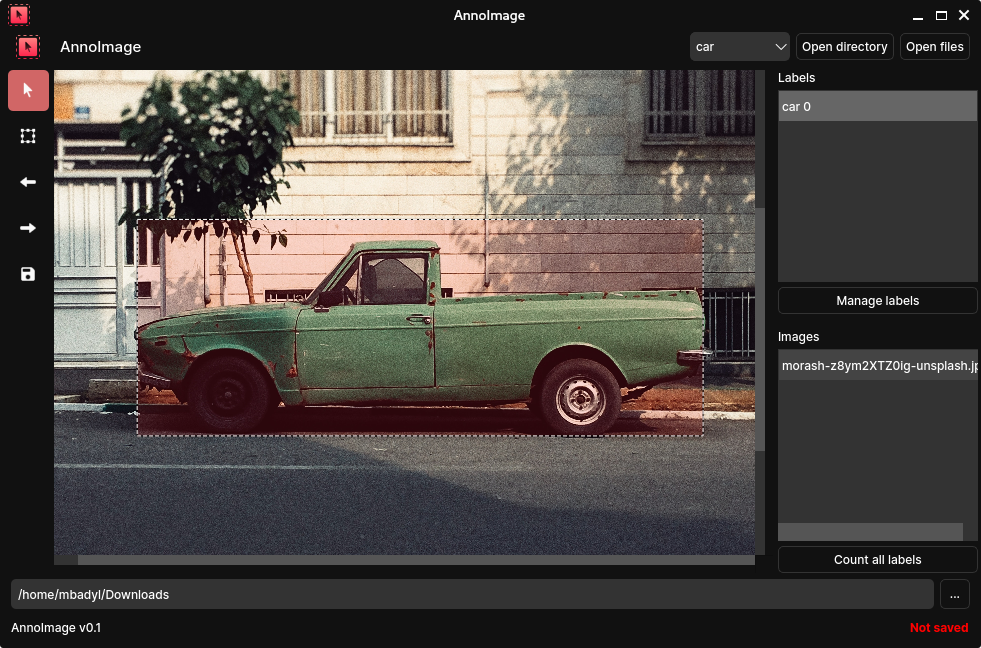
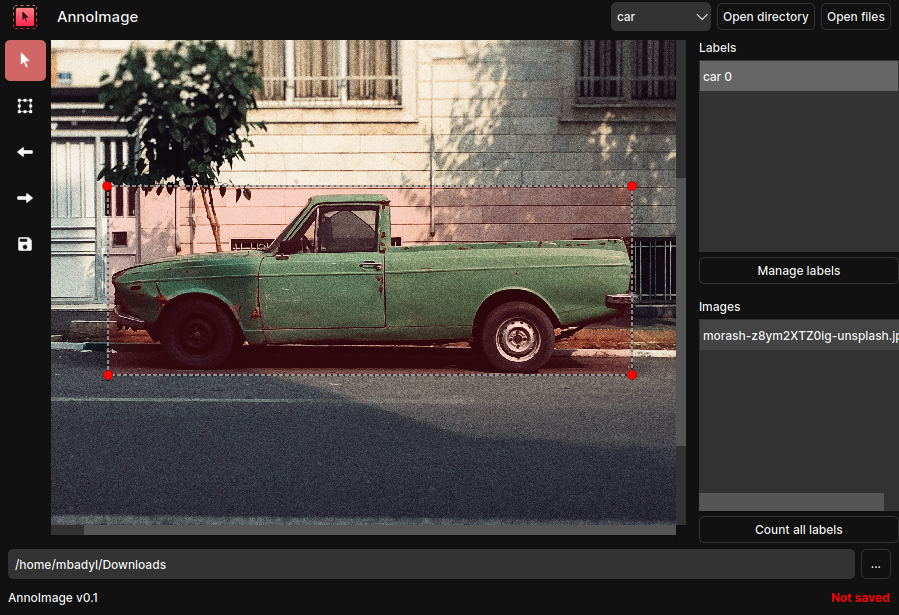
Label resize

diff --git a/widgets/rectangle_item.py b/widgets/rectangle_item.py
@@ -1,14 +1,21 @@
 from PySide6.QtCore import Qt, QPointF, QRectF, Signal
-from PySide6.QtWidgets import QGraphicsRectItem
+from PySide6.QtWidgets import QGraphicsRectItem, QGraphicsEllipseItem
 from PySide6.QtGui import QPen, QBrush, QColor
 
 
 class RectangleItem(QGraphicsRectItem):
+    start_resizing = Signal()
+    stop_resizing = Signal()
+
     def __init__(
-        self, start_point, end_point, label_name, label_id, image_width, image_height
+        self, start_point, end_point, label_name, label_id, image_width, image_height,
+            parent
     ):
         super().__init__()
+        print("RectangleItem init")
         self.setRect(self.calculateRectangle(start_point, end_point))
+        self.image_view = parent
+        self.resize_handles = []
 
         self.default_pen = QPen(QColor(255, 0, 0))
         self.default_pen.setStyle(Qt.DashLine)
@@ -23,6 +30,7 @@ class RectangleItem(QGraphicsRectItem):
         self.label_id = label_id
         self.label_line = self.create_yolo_label()
 
+        self.add_resize_handles()
         self.set_default_color()
         self.setAcceptHoverEvents(True)
 
@@ -62,3 +70,57 @@ class RectangleItem(QGraphicsRectItem):
     def hoverLeaveEvent(self, event):
         if self.selectable:
             self.set_default_color()
+
+    def add_resize_handles(self):
+        handle_size = min(self.rect().width(), self.rect().height()) * 0.05
+        half_size = handle_size / 2
+
+        for x, y in [(0, 0), (1, 0), (0, 1), (1, 1)]:
+            handle = HandleItem(-half_size, -half_size, handle_size, handle_size, self)
+            handle.setPos(self.rect().x() + x * self.rect().width(), self.rect().y() + y * self.rect().height())
+            handle.setFlag(QGraphicsEllipseItem.ItemIsMovable)
+            handle.setBrush(QBrush(QColor(255, 0, 0)))
+            handle.setData(0, (x, y))
+
+            self.resize_handles.append(handle)
+
+    def update_handlers_position(self):
+        for handle in self.resize_handles:
+            x_offset, y_offset = handle.data(0)
+            handle.setPos(self.rect().x() + x_offset * self.rect().width(), self.rect().y() + y_offset * self.rect().height())
+
+
+class HandleItem(QGraphicsEllipseItem):
+    def __init__(self, x, y, w, h, parent):
+        super().__init__(x, y, w, h, parent)
+
+    def mouseMoveEvent(self, event):
+        parent = self.parentItem()
+        parent.image_view.movable_disable()
+        x_offset, y_offset = self.data(0)
+        x, y = event.pos().x() - event.lastPos().x(), event.pos().y() - event.lastPos().y()
+
+        if x_offset == 0:
+            new_width = parent.rect().width() - x
+            new_x = parent.rect().x() + (parent.rect().width() - new_width)
+        else:
+            new_width = parent.rect().width() + x
+            new_x = parent.rect().x()
+
+        if y_offset == 0:
+            new_height = parent.rect().height() - y
+            new_y = parent.rect().y() + (parent.rect().height() - new_height)
+        else:
+            new_height = parent.rect().height() + y
+            new_y = parent.rect().y()
+
+        new_rect = QRectF(new_x, new_y, new_width, new_height)
+        parent.setRect(new_rect)
+        parent.label_line = parent.create_yolo_label()
+        parent.update_handlers_position()
+        super().mouseMoveEvent(event)
+
+    def mouseReleaseEvent(self, event):
+        parent = self.parentItem()
+        parent.image_view.movable_enable()
+        super().mouseReleaseEvent(event)

diff --git a/widgets/image_view.py b/widgets/image_view.py
@@ -167,10 +167,14 @@ class ImageView(QGraphicsView):
                         label_id,
                         self.image_width,
                         self.image_height,
+                        self,
                     )
                     if self.current_mode == "select":
                         rectangle.setFlag(QGraphicsRectItem.ItemIsMovable, True)
                         rectangle.setFlag(QGraphicsRectItem.ItemIsSelectable, True)
+
+                    # rectangle.start_resizing.connect(self.movable_disable)
+                    # rectangle.stop_resizing.connect(self.movable_enable)
 
                     self.rectangles.append(rectangle)
                     self.current_saved_labels.append(line)
@@ -215,7 +219,9 @@ class ImageView(QGraphicsView):
                 self.label_id,
                 self.image_width,
                 self.image_height,
+                self
             )
+
             if self.current_mode == "select":
                 rectangle_item.setFlag(QGraphicsRectItem.ItemIsMovable, True)
                 rectangle_item.setFlag(QGraphicsRectItem.ItemIsSelectable, True)
@@ -334,3 +340,11 @@ class ImageView(QGraphicsView):
     def resizeEvent(self, event):
         super().resizeEvent(event)
         self.image_label.setGeometry(self.viewport().rect())
+
+    def movable_disable(self):
+        for rectangle in self.rectangles:
+            rectangle.setFlag(QGraphicsRectItem.ItemIsMovable, False)
+
+    def movable_enable(self):
+        for rectangle in self.rectangles:
+            rectangle.setFlag(QGraphicsRectItem.ItemIsMovable, True)
